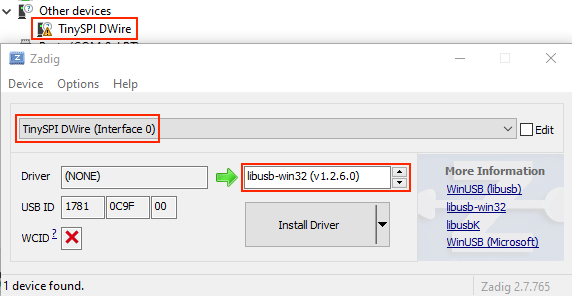
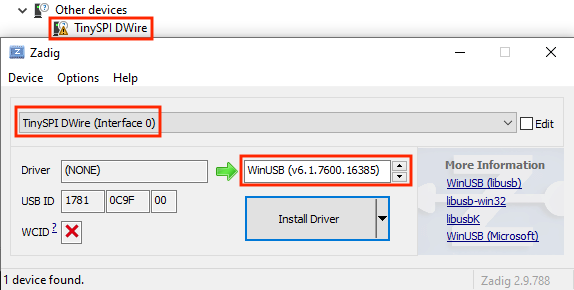
use winusb driver

diff --git a/README.md b/README.md
@@ -39,7 +39,7 @@ There is a 100nF auto-reset capacitor on the serial adapter side of the jumper. 
 
 ### Install driver for Windows user
 
-The debugger does not need any driver for Mac OS. But it does need LibUSB driver for the debugging/programming interface on Windows. Using [Zadig](zadig.akeo.ie) to install the libusb-win32 driver. 
+The debugger does not need any driver for Mac OS. But it does need LibUSB driver for the debugging/programming interface on Windows. Using [Zadig](zadig.akeo.ie) to install the WinUSB driver. 
 
 ![Install driver on Windows](https://raw.githubusercontent.com/DeqingSun/unoDebugTestPackage/main/images/installDriverInWindows.png)
 
